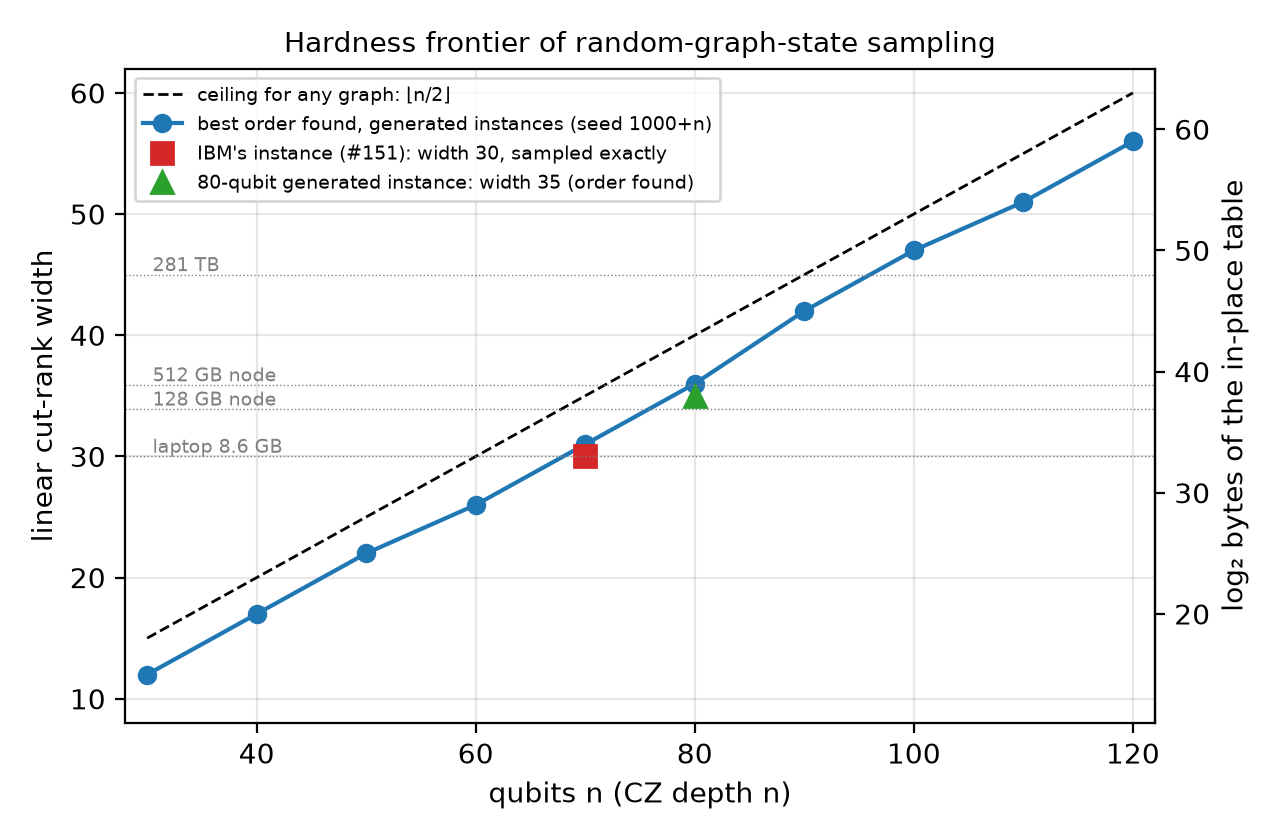
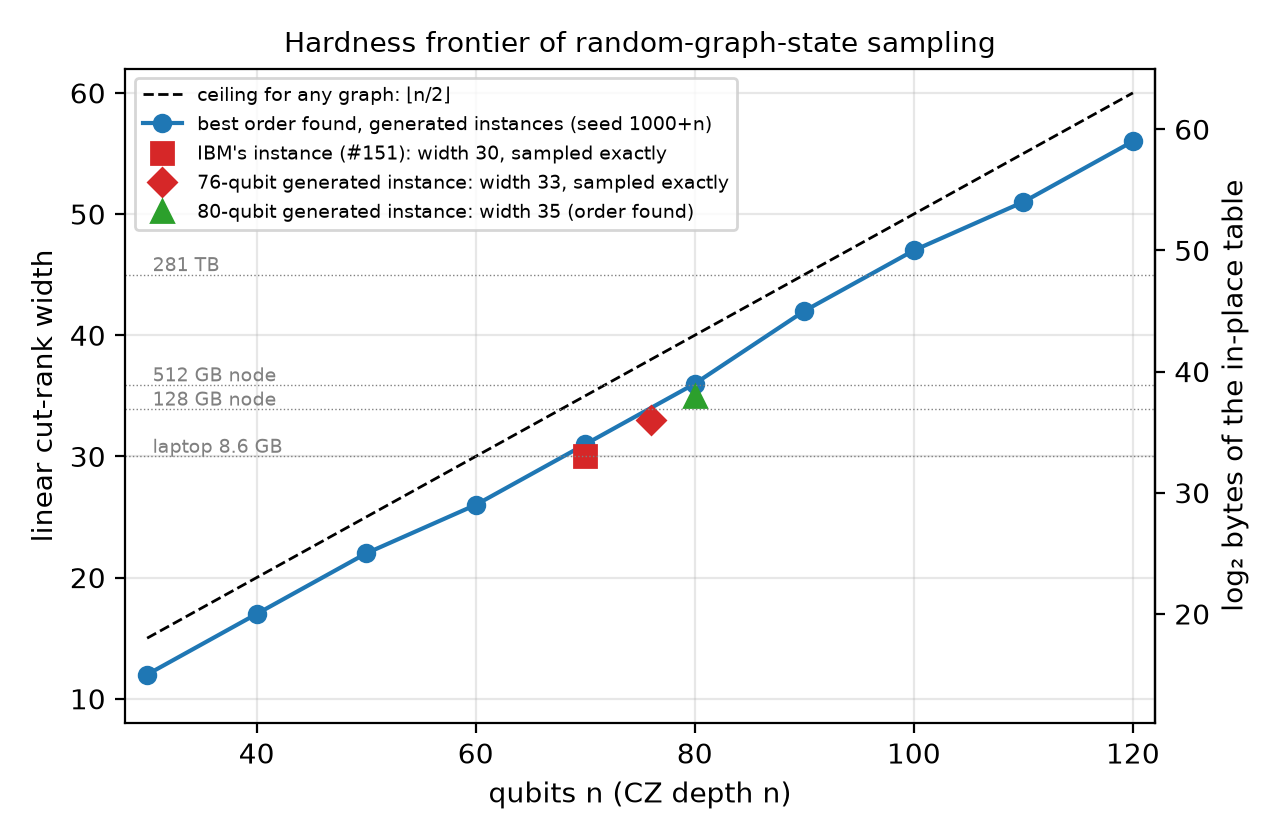
Figure 1 with the 76-qubit point

Changed region(s): [[0.0938, 0.0929, 0.5938, 0.2786], [0.5, 0.4643, 0.5312, 0.5262]]

diff --git a/paper/make_figures.py b/paper/make_figures.py
@@ -2,7 +2,7 @@
   fig1_frontier.png   width vs n for the construction (frontier.jsonl), the n/2 ceiling, measured points, memory axis
   fig2_shots.png      distribution of z = 2^70 p over IBM's 1,726 shots vs the fitted clean/uniform mixture and the ideal
   fig3_information.png  spread of the exact per-step conditionals along the order: hardware shots and ideal samples
-Run from the repository root: python make_figures.py"""
+Run from the repository root: python paper/make_figures.py"""
 import json, math, numpy as np
 import matplotlib; matplotlib.use("Agg")
 import matplotlib.pyplot as plt
@@ -16,6 +16,7 @@ fig, ax = plt.subplots(figsize=(6.4, 4.2))
 ax.plot(n, n // 2, "k--", lw=1, label="ceiling for any graph: ⌊n/2⌋")
 ax.plot(n, w, "o-", color="#1f77b4", label="best order found, generated instances (seed 1000+n)")
 ax.plot([70], [30], "s", color="#d62728", ms=8, label="IBM's instance (#151): width 30, sampled exactly")
+ax.plot([76], [33], "D", color="#d62728", ms=7, label="76-qubit generated instance: width 33, sampled exactly")
 ax.plot([80], [35], "^", color="#2ca02c", ms=8, label="80-qubit generated instance: width 35 (order found)")
 ax.set_xlabel("qubits n (CZ depth n)"); ax.set_ylabel("linear cut-rank width")
 ax2 = ax.secondary_yaxis("right", functions=(lambda y: y + math.log2(8), lambda y: y - math.log2(8)))
